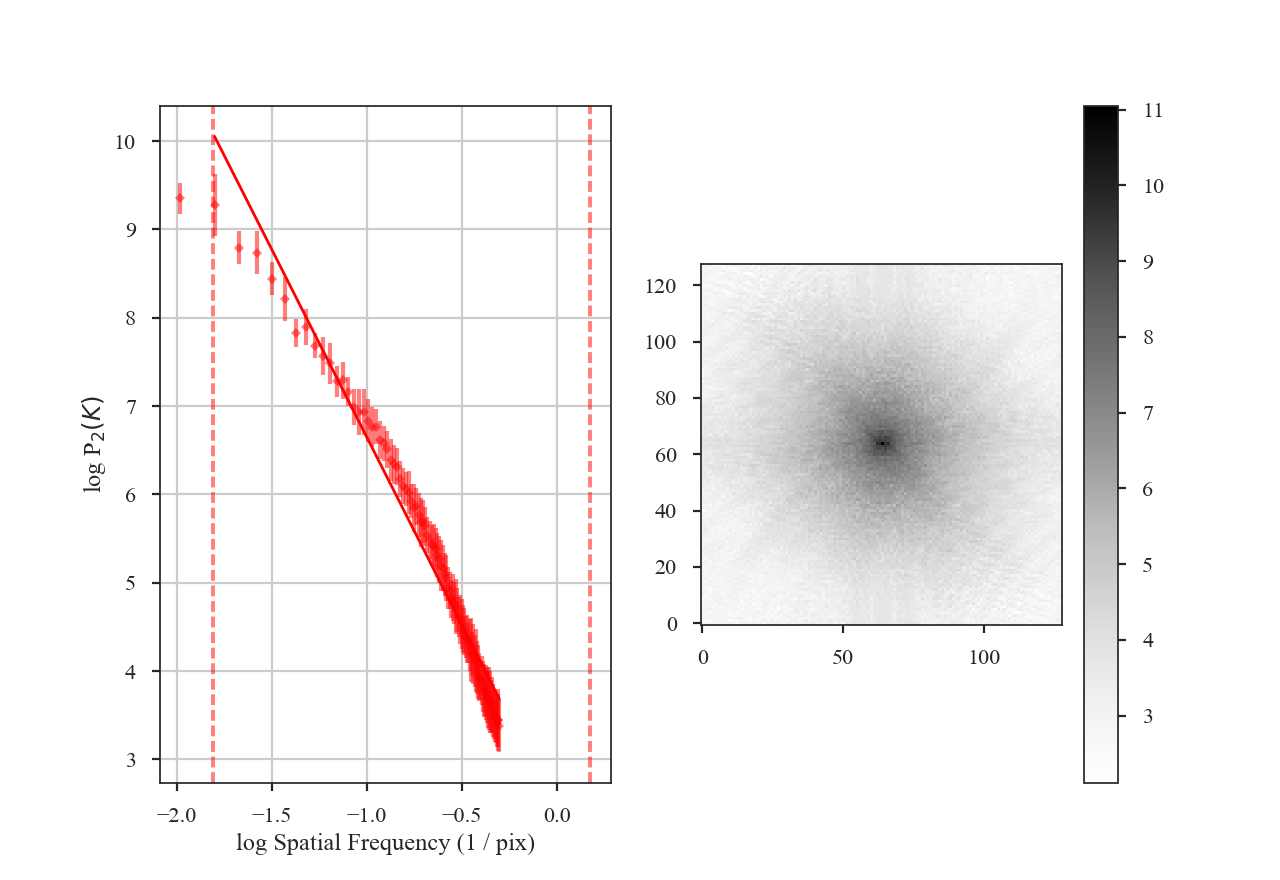
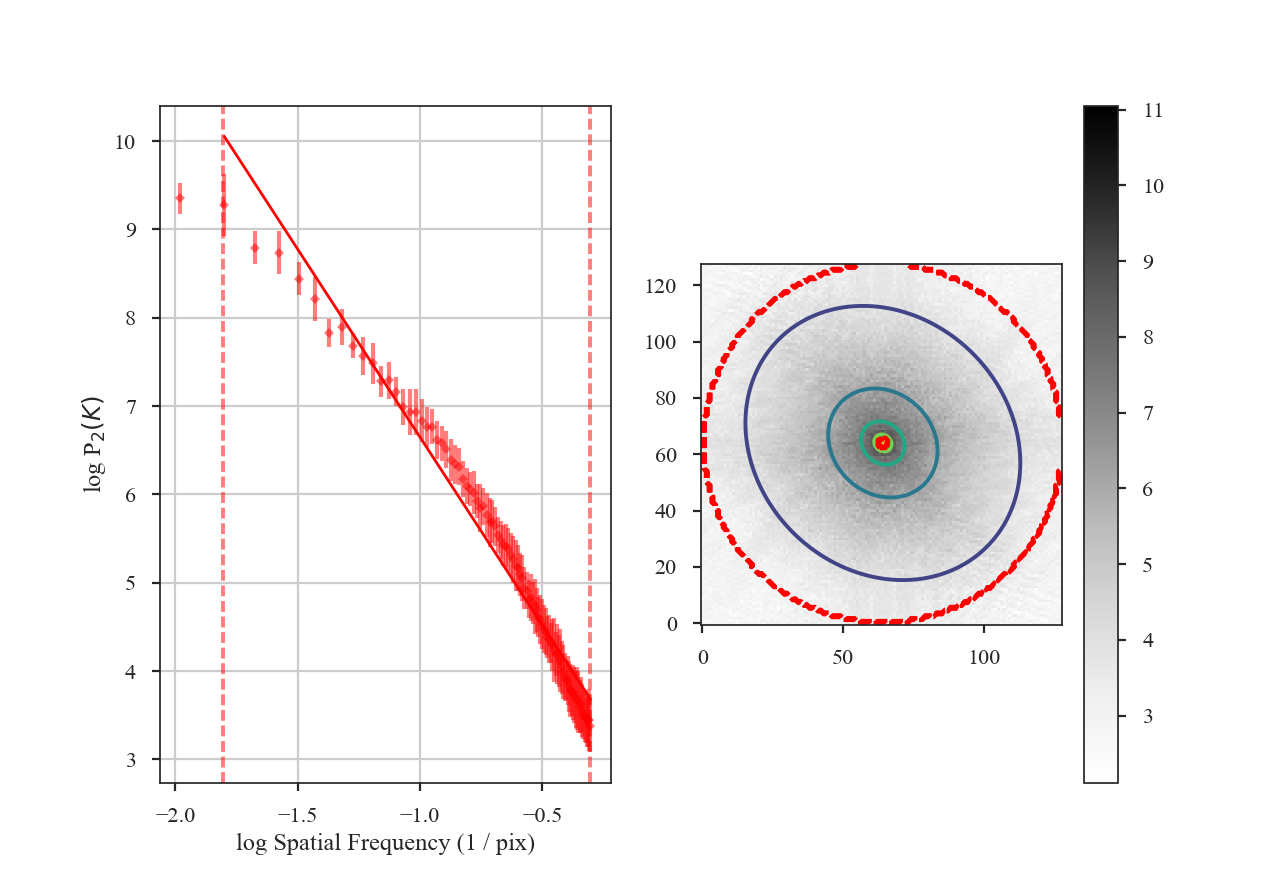
Update tutorials with 2D fitting

diff --git a/docs/tutorials/statistics/code_for_tutorials.py b/docs/tutorials/statistics/code_for_tutorials.py
@@ -160,15 +160,16 @@ if run_mvc:
             save_name=osjoin(fig_path, 'mvc_design4_limitedfreq.png'))
 
     # With a break
+    mvc = MVC(centroid, moment0, lwidth, distance=250 * u.pc)
     mvc.run(verbose=True, xunit=u.pix**-1, low_cut=0.02 / u.pix,
             high_cut=0.4 / u.pix,
-            brk=0.1 / u.pix, log_break=False,
+            brk=0.1 / u.pix, log_break=False, fit_2D=False,
             save_name=osjoin(fig_path, "mvc_design4_breakfit.png"))
 
     # With phys units
     mvc = MVC(centroid, moment0, lwidth, distance=250 * u.pc)
     mvc.run(verbose=True, xunit=u.pc**-1, low_cut=0.02 / u.pix,
-            high_cut=0.1 / u.pix,
+            high_cut=0.1 / u.pix, fit_2D=False,
             save_name=osjoin(fig_path, 'mvc_design4_physunits.png'))
 
 # PCA
@@ -317,10 +318,15 @@ if run_pspec:
               low_cut=0.02 / u.pix, high_cut=0.1 / u.pix,
               save_name=osjoin(fig_path, "design4_pspec_limitedfreq.png"))
 
+    print(pspec.slope2D, pspec.slope2D_err)
+    print(pspec.ellip2D, pspec.ellip2D_err)
+    print(pspec.theta2D, pspec.theta2D_err)
+
     # How about fitting a break?
+    pspec = PowerSpectrum(moment0, distance=250 * u.pc)
     pspec.run(verbose=True, xunit=u.pc**-1,
               low_cut=0.02 / u.pix, high_cut=0.4 / u.pix,
-              brk=0.1 / u.pix, log_break=False,
+              brk=0.1 / u.pix, log_break=False, fit_2D=False,
               save_name=osjoin(fig_path, "design4_pspec_breakfit.png"))
 
 # SCF
@@ -333,6 +339,10 @@ if run_scf:
     scf = SCF(cube, size=11)
     scf.run(verbose=True,
             save_name=osjoin(fig_path, "design4_scf.png"))
+
+    print(scf.slope2D, scf.slope2D_err)
+    print(scf.ellip2D, scf.ellip2D_err)
+    print(scf.theta2D, scf.theta2D_err)
 
     # With fit limits
     scf.run(verbose=True, xlow=1 * u.pix, xhigh=5 * u.pix,
@@ -434,12 +444,12 @@ if run_vca:
 
     vca = VCA(cube, distance=250 * u.pc)
     vca.run(verbose=True, xunit=u.pc**-1, low_cut=0.02 / u.pix, high_cut=0.4 / u.pix,
-            brk=0.1 / u.pix, log_break=False,
+            brk=0.1 / u.pix, log_break=False, fit_2D=False,
             save_name=osjoin(fig_path, "design4_vca_breakfit.png"))
 
     vca_thicker = VCA(cube, distance=250 * u.pc, channel_width=400 * u.m / u.s)
     vca_thicker.run(verbose=True, xunit=u.pc**-1, low_cut=0.02 / u.pix, high_cut=0.4 / u.pix,
-                    brk=0.1 / u.pix,
+                    brk=0.1 / u.pix, fit_2D=False,
                     save_name=osjoin(fig_path, "design4_vca_400ms_channels.png"))
 
 

diff --git a/docs/tutorials/statistics/pspec_example.rst b/docs/tutorials/statistics/pspec_example.rst
@@ -53,7 +53,9 @@ The power spectrum is computed using:
 
 .. image:: images/design4_pspec.png
 
-The power spectrum of this simulation has a slope of :math:`-3.3\pm0.1`, but the power-spectrum deviates from a power-law on small scales. This is due to the the limited inertial range in this simulation. The spatial frequencies used in the fit can be limited by setting `low_cut` and `high_cut`. The inputs should have frequency units in pixels, angle, or physical units. For example,
+The code returns a summary of the one-dimensional fit and a figure showing the one-dimensional spectrum and model on the left, and the two-dimensional power-spectrum on the right. If `fit_2D=True` is set in `~turbustat.statistics.PowerSpectrum.run` (the default setting), the contours on the two-dimensional power-spectrum are the fit using an elliptical power-law model. We will discuss the models in more detail below. The dashed red lines (or contours) on both plots are the limits of the data used in the fits.
+
+The power spectrum of this simulation has a slope of :math:`-3.3\pm0.1`, but the power-spectrum deviates from a single power-law on small scales. This is due to the the limited inertial range in this simulation. The spatial frequencies used in the fit can be limited by setting `low_cut` and `high_cut`. The inputs should have frequency units in pixels, angle, or physical units. For example,
 
     >>> pspec.run(verbose=True, xunit=u.pix**-1, low_cut=0.02 / u.pix, high_cut=0.1 / u.pix)  # doctest: +SKIP
                                 OLS Regression Results
@@ -83,9 +85,23 @@ The power spectrum of this simulation has a slope of :math:`-3.3\pm0.1`, but the
 
 When limiting the fit to the inertial range, the slope is :math:`-2.7\pm0.2`. `low_cut` and `high_cut` can also be given as spatial frequencies in angular units (e.g., `u.deg**-1`). And since a distance was specified, the `low_cut` and `high_cut` can also be given in physical frequency units (e.g., `u.pc**-1`).
 
+The fit to the two-dimensional power-spectrum has also changed. These parameters aren't included in the fit summary for the 1D fit. Instead, they can be accessed through:
+
+    >>> print(pspec.slope2D, pspec.slope2D_err)  # doctest: +SKIP
+    (-3.0568257229644442, 0.42962017690271243)
+    >>> print(pspec.ellip2D, pspec.ellip2D_err)  # doctest: +SKIP
+    (0.726886399420131, 2.2978314267268547)
+    >>> print(pspec.theta2D, pspec.theta2D_err)  # doctest: +SKIP
+    (1.1528218999604305, 6.9282582013852014)
+
+The slope is consistent with the 1D model, but the uncertainty is much larger. This is due to the very limited range of the data used for the fit. By default, the parameter uncertainties for the 2D model are determined by a bootstrap. After fitting the model, the residuals are added back to the data, and re-fit some number of times. The bootstrap estimation is enabled by the `bootstrap` keyword in `~turbustat.statistics.PowerSpectrum.fit_2Dpspec` and the number of iterations is set with `niters` (the default is 100). These can be set in `~turbustat.statistics.PowerSpectrum.run` by passing a keyword dictionary to `fit_2D_kwargs` (e.g., `fit_2D_kwargs={'bootstrap': False}`). The other parameters are the ellipticity, which is bounded between 0 and 1 (with 1 being circular), and theta, the angle between the x-axis and the semi-major axis of the ellipse. Theta is bounded between 0 and :math:`\pi`.
+
+*Why are the errors so large?* For this example, the errors on the latter two parameters are larger than the ranges they are defined over! Why? Theta is left unbounded during the fit, and when unconstrained, both it and the error will be large. For the ellipticity, the fit uses a transformed version of the ellipticity that makes it defined over the real line. This has a massive effect on stabilizing the fits. The down-side is that the error becomes large when it is not well-constrained. In order to constrain these parameters, the model needs to be fit over a larger range of frequencies.
+
 Breaks in the power-law behaviour in observations (and higher-resolution simulations) can result from differences in the physical processes dominating at those scales. To capture this behaviour, `PowerSpectrum` can be passed a break point to enable fitting with a segmented linear model (`~turbustat.statistics.Lm_Seg`):
 
-    >>> pspec.run(verbose=True, xunit=u.pc**-1, low_cut=0.02 / u.pix, high_cut=0.4 / u.pix, brk=0.1 / u.pix, log_break=False)  # doctest: +SKIP
+    >>> pspec = PowerSpectrum(moment0, distance=250 * u.pc)  # doctest: +SKIP
+    >>> pspec.run(verbose=True, xunit=u.pc**-1, low_cut=0.02 / u.pix, high_cut=0.4 / u.pix, brk=0.1 / u.pix, log_break=False, fit_2D=False)  # doctest: +SKIP
                                 OLS Regression Results
     ==============================================================================
     Dep. Variable:                      y   R-squared:                       0.994
@@ -114,6 +130,8 @@ Breaks in the power-law behaviour in observations (and higher-resolution simulat
 .. image:: images/design4_pspec_breakfit.png
 
 `brk` is the initial guess at where the break point is. Here I've set it to the extent of the inertial range of the simulation. `log_break` should be enabled if the given `brk` is already the log (base-10) value (since the fitting is done in log-space). The segmented linear model iteratively optimizes the location of the break point, trying to minimize the gap between the different components. This is the `x3` parameter above. The slopes of the components are `x1` and `x2`, but the second slope is defined *relative to the first slope* (i.e., if `x2=0`, the slopes of the components would be the same). The true slopes can be accessed through `pspec.slope` and `pspec.slope_err`. The location of the fitted break point is given by `pspec.brk`, and its uncertainty `pspec.brk_err`. If the fit does not find a good break point, it will revert to a linear fit without the break.
+
+Note that the 2D fitting was disabled in this last example. The 2D model cannot fit a break point, and will instead try to fit a single power-law for the between `low_cut` and `high_cut`, which we know already know is the wrong model. Thus, it has been disabled to avoid confusion. A strategy for fitting the 2D model when the spectrum shows a break is to first fit the 1D model, find the break point, and then fit the 2D spectrum independently using the break point as the `high_cut` in `~turbustat.statistics.PowerSpectrum.fit_2Dpspec`.
 
 References
 ----------

diff --git a/docs/tutorials/statistics/vca_example.rst b/docs/tutorials/statistics/vca_example.rst
@@ -55,7 +55,9 @@ The VCA spectrum is computed using:
 
 .. image:: images/design4_vca.png
 
-The VCA power spectrum from this simulated data cube is :math:`-4.25\pm0.08`, which is steeper than the power spectrum we found using the zeroth moment (:ref:`PowerSpectrum tutorial <pspec_tutorial>`). However, as was the case for the power-spectrum of the zeroth moment, there are deviation from a single power-law on small scales due to the inertial range in the simulation. The spatial frequencies used in the fit can be limited by setting `low_cut` and `high_cut`. The inputs should have frequency units in pixels, angle, or physical units. In this case, we will limit the fitting between frequencies of `0.02 / pix` and `0.1 / pix` (where the conversion so pixel scales in the simulation is just `1 / freq`):
+The code returns a summary of the one-dimensional fit and a figure showing the one-dimensional spectrum and model on the left, and the two-dimensional power-spectrum on the right. If `fit_2D=True` is set in `~turbustat.statistics.VCA.run` (the default setting), the contours on the two-dimensional power-spectrum are the fit using an elliptical power-law model. We will discuss the models in more detail below. The dashed red lines (or contours) on both plots are the limits of the data used in the fits. See the :ref:`PowerSpectrum tutorial <pspec_tutorial>` for a discussion of the two-dimensional fitting.
+
+The VCA power spectrum from this simulated data cube is :math:`-4.25\pm0.08`, which is steeper than the power spectrum we found using the zeroth moment (:ref:`PowerSpectrum tutorial <pspec_tutorial>`). However, as was the case for the power-spectrum of the zeroth moment, there are deviation from a single power-law on small scales due to the inertial range in the simulation. The spatial frequencies used in the fit can be limited by setting `low_cut` and `high_cut`. The inputs should have frequency units in pixels, angle, or physical units. In this case, we will limit the fitting between frequencies of `0.02 / pix` and `0.1 / pix` (where the conversion to pixel scales in the simulation is just `1 / freq`):
 
     >>> vca.run(verbose=True, xunit=u.pix**-1, low_cut=0.02 / u.pix, high_cut=0.1 / u.pix)  # doctest: +SKIP
                                 OLS Regression Results
@@ -85,10 +87,10 @@ The VCA power spectrum from this simulated data cube is :math:`-4.25\pm0.08`, wh
 
 With the fitting limited to the valid region, we find a shallower slope of :math:`-3.1\pm0.1` and a better fit to the model. `low_cut` and `high_cut` can also be given as spatial frequencies in angular units (e.g., `u.deg**-1`). When a distance is given, the `low_cut` and `high_cut` can also be given in physical frequency units (e.g., `u.pc**-1`).
 
-Breaks in the power-law behaviour in observations (and higher-resolution simulations) can result from differences in the physical processes dominating at those scales. To capture this behaviour, `VCA` can be passed a break point to enable fitting with a segmented linear model (`~turbustat.statistics.Lm_Seg`; see the description given in the :ref:`PowerSpectrum tutorial <pspec_tutorial>`). In this example, we will assume a distance of 250 pc in order to show the power spectrum in physical units:
+Breaks in the power-law behaviour in observations (and higher-resolution simulations) can result from differences in the physical processes dominating at those scales. To capture this behaviour, `VCA` can be passed a break point to enable fitting with a segmented linear model (`~turbustat.statistics.Lm_Seg`; see the description given in the :ref:`PowerSpectrum tutorial <pspec_tutorial>`). The 2D fitting is disabled for this section as it does handle fitting break points. In this example, we will assume a distance of 250 pc in order to show the power spectrum in physical units:
 
     >>> vca = VCA(cube, distance=250 * u.pc)  # doctest: +SKIP
-    >>> vca.run(verbose=True, xunit=u.pc**-1, low_cut=0.02 / u.pix, high_cut=0.4 / u.pix, brk=0.1 / u.pix, log_break=False)  # doctest: +SKIP
+    >>> vca.run(verbose=True, xunit=u.pc**-1, low_cut=0.02 / u.pix, high_cut=0.4 / u.pix, brk=0.1 / u.pix, log_break=False, fit_2D=False)  # doctest: +SKIP
                                 OLS Regression Results
     ==============================================================================
     Dep. Variable:                      y   R-squared:                       0.998
@@ -142,7 +144,7 @@ The slope above the break point is within the uncertainty of the slope we found 
 The Lazarian & Pogosyan theory predicts that the VCA power-spectrum depends on the size of the velocity slices in the data cube (e.g., :ref:`Stanimirovic & Lazarian 2001 <ref-sl01>`). `~turbustat.statistics.VCA` allows for the velocity channel thickness to be changed with `channel_width`. This runs a routine that spectrally smooths the cube with a Gaussian kernel, whose width matched the target `channel_width`, then interpolates the data onto a new grid at the new `channel_width`. The example data used here has spectral channels of :math:`\sim 40` m / s. We can re-run VCA on this data with a channel width of :math:`\sim 400` m / s, and compare to the original slope:
 
     >>> vca_thicker_channel = VCA(cube, distance=250 * u.pc, channel_width=400 * u.m / u.s)  # doctest: +SKIP
-    >>> vca_thicker.run(verbose=True, xunit=u.pc**-1, low_cut=0.02 / u.pix, high_cut=0.4 / u.pix, brk=0.1 / u.pix, log_break=False)  # doctest: +SKIP
+    >>> vca_thicker.run(verbose=True, xunit=u.pc**-1, low_cut=0.02 / u.pix, high_cut=0.4 / u.pix, brk=0.1 / u.pix, log_break=False, fit_2D=False)  # doctest: +SKIP
                            OLS Regression Results
     ==============================================================================
     Dep. Variable:                      y   R-squared:                       0.998

diff --git a/docs/tutorials/statistics/mvc_example.rst b/docs/tutorials/statistics/mvc_example.rst
@@ -74,7 +74,9 @@ Calculating the power spectrum, radially averaging, and fitting a power-law are 
 
 .. image:: images/mvc_design4.png
 
-The fit here is not optimal since the spectrum deviates from being a single power-law. In this case, the deviation is caused by the limited inertial range in the simulation from which this spectral-line data cube was created. We can specify `low_cut` and `high_cut` in frequency units to limit the fitting to the inertial range:
+The code returns a summary of the one-dimensional fit and a figure showing the one-dimensional spectrum and model on the left, and the two-dimensional power-spectrum on the right. If `fit_2D=True` is set in `~turbustat.statistics.MVC.run` (the default setting), the contours on the two-dimensional power-spectrum are the fit using an elliptical power-law model. We will discuss the models in more detail below. The dashed red lines (or contours) on both plots are the limits of the data used in the fits. See the :ref:`PowerSpectrum tutorial <pspec_tutorial>` for a discussion of the two-dimensional fitting.
+
+The fit here is not very good since the spectrum deviates from a single power-law on small scales. In this case, the deviation is caused by the limited inertial range in the simulation from which this spectral-line data cube was created. We can specify `low_cut` and `high_cut` in frequency units to limit the fitting to the inertial range:
 
     >>> mvc.run(verbose=True, xunit=u.pix**-1, low_cut=0.02 / u.pix, high_cut=0.1 / u.pix)  # doctest: +SKIP
                                 OLS Regression Results
@@ -104,9 +106,9 @@ The fit here is not optimal since the spectrum deviates from being a single powe
 
 Note the drastic change in the slope! Specifying the correct fit region for the data you're using is critical for interpreting the results of the method.
 
-Breaks in the power-law behaviour in observations (and higher-resolution simulations) can result from differences in the physical processes dominating at those scales. To capture this behaviour, `MVC` can be passed a break point to enable fitting with a segmented linear model (`~turbustat.statistics.Lm_Seg`):
+Breaks in the power-law behaviour in observations (and higher-resolution simulations) can result from differences in the physical processes dominating at those scales. To capture this behaviour, `MVC` can be passed a break point to enable fitting with a segmented linear model (`~turbustat.statistics.Lm_Seg`). Note that the 2D fitting is disabled for this section as it does handle fitting break points. From the above plot, we can estimate the break point to be near `0.1 / u.pix`:
 
-    >>> mvc.run(verbose=True, xunit=u.pc**-1, low_cut=0.02 / u.pix, high_cut=0.4 / u.pix, brk=0.1 / u.pix, log_break=False)  # doctest: +SKIP
+    >>> mvc.run(verbose=True, xunit=u.pc**-1, low_cut=0.02 / u.pix, high_cut=0.4 / u.pix, brk=0.1 / u.pix, log_break=False, fit_2D=False)  # doctest: +SKIP
                                 OLS Regression Results
     ==============================================================================
     Dep. Variable:                      y   R-squared:                       0.994
@@ -141,7 +143,7 @@ Many of the techniques in TurbuStat are derived from two-dimensional power spect
 Finally, the frequency units of the final plot (`xunit`) and the units of `low_cut` and `high_cut` can be given in angular units, as well as physical units when a distance is given. For example:
 
     >>> mvc = MVC(centroid, moment0, lwidth, distance=250 * u.pc)  # doctest: +SKIP
-    >>> mvc.run(verbose=True, xunit=u.pc**-1, low_cut=0.02 / u.pix, high_cut=0.1 / u.pix)  # doctest: +SKIP
+    >>> mvc.run(verbose=True, xunit=u.pc**-1, low_cut=0.02 / u.pix, high_cut=0.1 / u.pix, fit_2D=False)  # doctest: +SKIP
                                 OLS Regression Results
     ==============================================================================
     Dep. Variable:                      y   R-squared:                       0.952

diff --git a/docs/tutorials/statistics/scf_example.rst b/docs/tutorials/statistics/scf_example.rst
@@ -69,7 +69,19 @@ To compute the SCF, we run:
 
 .. image:: images/design4_scf.png
 
-The summary plot shows the correlation surface, a histogram of correlation values, and the 1D spectrum from the azimuthal average, plotted with the power-law fit. A weighted least-squares fit is used to find the slope of the SCF spectrum, where the inverse squared standard deviation from the azimuthal average are used as the weights.
+The summary plot shows the correlation surface, a histogram of correlation values, and the 1D spectrum from the azimuthal average, plotted with the power-law fit. A weighted least-squares fit is used to find the slope of the SCF spectrum, where the inverse squared standard deviation from the azimuthal average are used as the weights. The solid contours on the SCF surface are from the 2D fit to the surface, while the blue dot-dashed lines are the extents of the data used in the fit (and match the 1D spectrum limits). See the :ref:`PowerSpectrum tutorial <pspec_tutorial>` for a more thorough discussion of the two-dimensional fitting.
+
+The 2D model parameters are not shown in the above summary. Instead, the parameters can be accessed with:
+
+    >>> print(scf.slope2D, scf.slope2D_err)  # doctest: +SKIP
+    (-0.21648274416050342, 7.8586198274582797e-05)
+    >>> print(scf.ellip2D, scf.ellip2D_err)  # doctest: +SKIP
+    (0.89100428375797669, 0.00022227119552445208)
+    >>> print(scf.theta2D, scf.theta2D_err)  # doctest: +SKIP
+    (1.901971529507771, 0.00098767168667635019)
+
+Since each value in the SCF surface is an average over the whole cube, it is less affected by noise than the power-spectrum based methods (e.g., :ref:`PowerSpectrum tutorial <pspec_tutorial>`) and the 2D fit is highly constrained despite having many fewer points to fit to. The slope of the 2D model is much steeper than the slope of the 1D model. In the 2D model, the index is defined to be the slope along the minor axis, where the slope is the steepest. The ability to return the slope at any angle will be added to TurbuStat in a future release.
+
 
 Real data may not have a spectrum described by a single power-law. In this case, the fit limits can be specified using `xlow` and `xhigh` to limit which scales are used in the fit.
 
